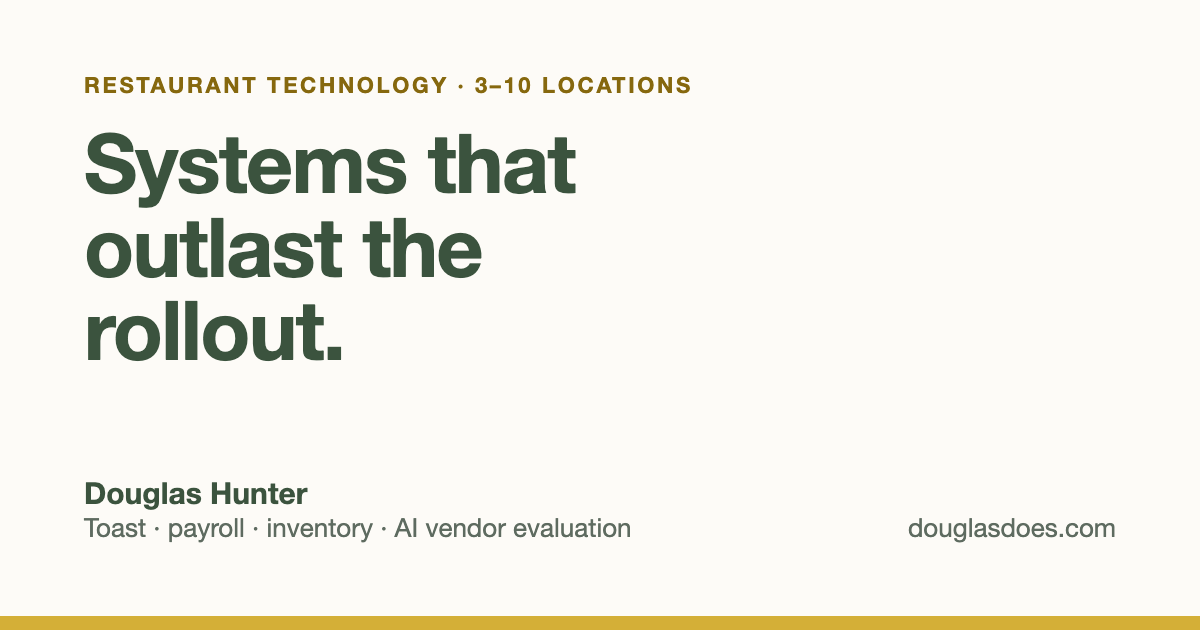
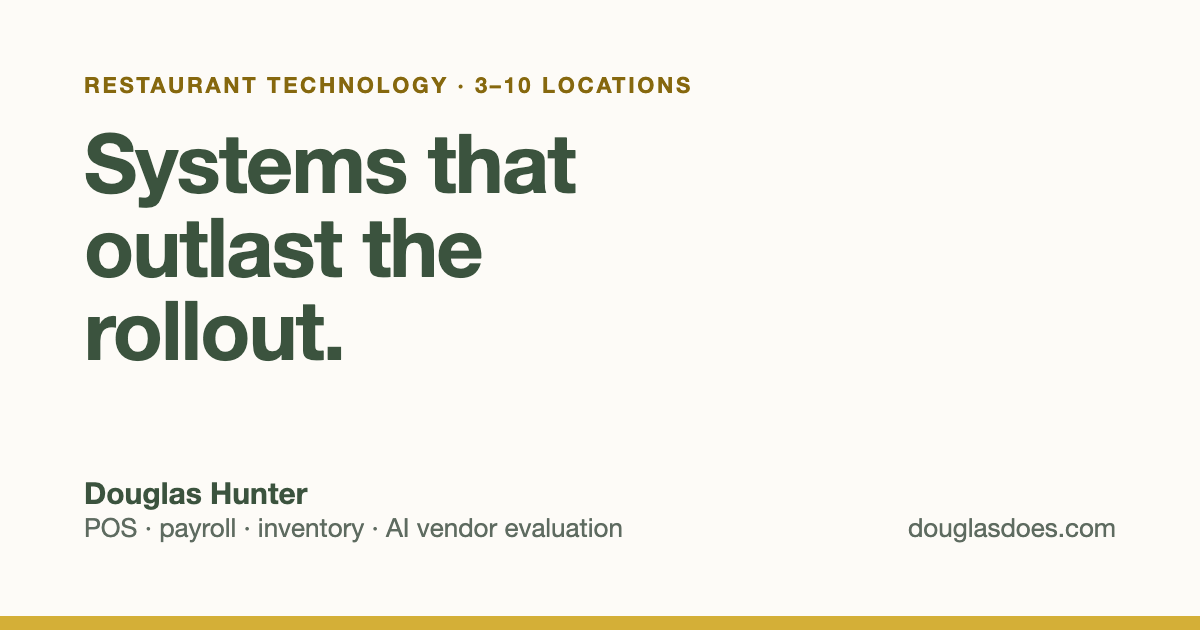
Describe systems by category, not vendor name

Changed region(s): [[0.0617, 0.8143, 0.5242, 0.8746]]

diff --git a/index.html b/index.html
@@ -4,12 +4,12 @@
 <meta charset="utf-8">
 <meta name="viewport" content="width=device-width,initial-scale=1">
 <title>Douglas Hunter — Restaurant Technology</title>
-<meta name="description" content="Restaurant technology for independent groups of 3–10 locations. Toast, payroll, inventory and AI vendor evaluation — choosing the right system, landing the change, and leaving procedures your managers still use.">
+<meta name="description" content="Restaurant technology for independent groups of 3–10 locations. POS, payroll, inventory and AI vendor evaluation — choosing the right system, landing the change, and leaving procedures your managers still use.">
 <link rel="canonical" href="https://douglasdoes.com/">
 <meta property="og:type" content="website">
 <meta property="og:url" content="https://douglasdoes.com/">
 <meta property="og:title" content="Douglas Hunter — Restaurant Technology">
-<meta property="og:description" content="Systems that outlast the rollout. Toast, payroll, inventory and AI vendor evaluation for independent restaurant groups of 3–10 locations.">
+<meta property="og:description" content="Systems that outlast the rollout. POS, payroll, inventory and AI vendor evaluation for independent restaurant groups of 3–10 locations.">
 <meta property="og:image" content="https://douglasdoes.com/og.png">
 <meta name="twitter:card" content="summary_large_image">
 <meta name="color-scheme" content="light">
@@ -25,7 +25,7 @@
   "address": { "@type": "PostalAddress", "addressLocality": "San Francisco", "addressRegion": "CA", "addressCountry": "US" },
   "areaServed": "US",
   "sameAs": ["https://www.linkedin.com/in/douglasdoes/"],
-  "description": "Restaurant technology consulting for independent groups of 3–10 locations: Toast POS and payroll, xtraCHEF inventory, migrations, operations documentation and AI vendor evaluation."
+  "description": "Restaurant technology consulting for independent groups of 3–10 locations: point of sale and payroll, recipe costing, inventory and accounts payable, migrations, operations documentation and AI vendor evaluation."
 }
 </script>
 <style>
@@ -191,8 +191,8 @@ footer .wrap{display:flex;justify-content:space-between;gap:16px;flex-wrap:wrap}
     <h2 id="when">When groups call me</h2>
     <div class="triggers">
       <div><h3>Opening a location</h3><p>A new site means new menus, new staff, new stations in the POS — and everything that worked for three stores quietly strains at four.</p></div>
-      <div><h3>Moving POS or payroll</h3><p>Toast, payroll providers, timekeeping. The cutover is a date on a calendar; the real risk is the week after it.</p></div>
-      <div><h3>Inventory and costing</h3><p>xtraCHEF, recipes, commissary ordering, invoices syncing to your books — numbers that only mean something once they're wired up right.</p></div>
+      <div><h3>Moving POS or payroll</h3><p>Point of sale, payroll, timekeeping. The cutover is a date on a calendar; the real risk is the week after it.</p></div>
+      <div><h3>Inventory, costing and AP</h3><p>Recipe costing, inventory counts, commissary ordering, invoices syncing to your books — numbers that only mean something once they're wired up right.</p></div>
       <div><h3>Being pitched AI</h3><p>Drive-thru voice ordering, phone ordering, scheduling, forecasting. The demo is not the product, and your POS rep is not neutral.</p></div>
     </div>
   </div>
@@ -298,7 +298,7 @@ footer .wrap{display:flex;justify-content:space-between;gap:16px;flex-wrap:wrap}
         vendor side of AI voice ordering, and run a payroll cutover across seven locations. So I'm skeptical
         of demos, specific about integration, and I write things down in the words your managers actually
         use.</p>
-        <p class="muted">Also at home in Square, Aloha and DinerWare — Toast is where I spend most of my time.</p>
+        <p class="muted">I work across the major point-of-sale, payroll, inventory, recipe-costing and accounts-payable platforms. What matters is how they work together in your restaurants.</p>
       </div>
     </div>
   </div>
